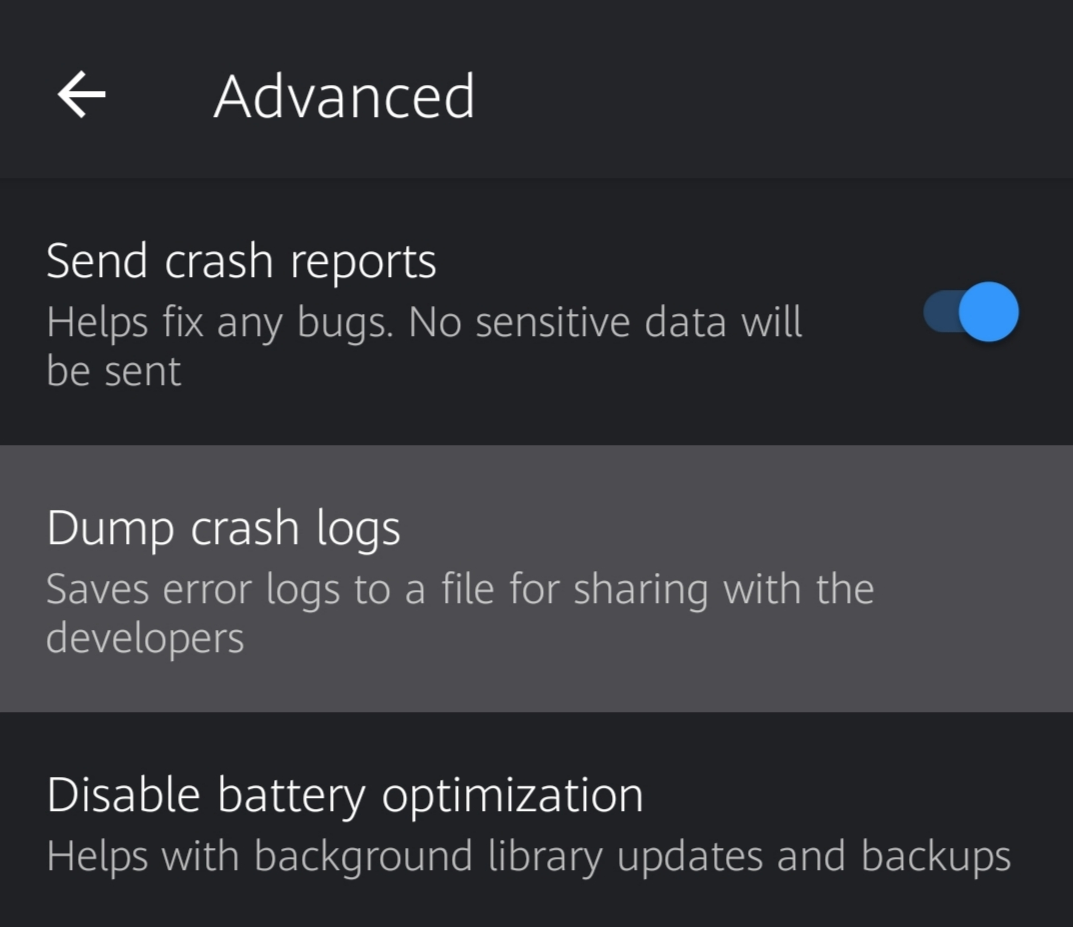
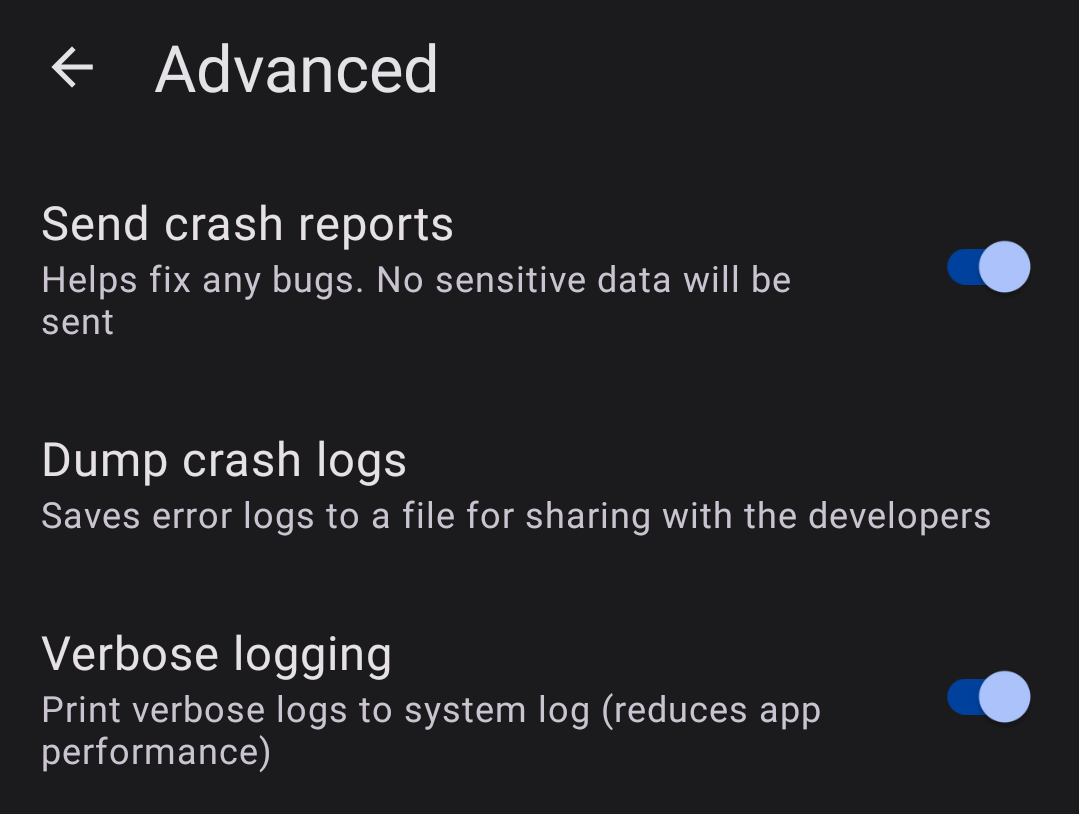
Documented more common errors (#830)
* Documented more common errors

* Fix incorrect icon name

* Correct link to Android 11 section

* Fixed el collapse item initialize

* updated dump crashlogs image

* Actually fix el-collapse

* Addressed PR Review comments

* Changed Android 11 section to 11+

* fix link to migration page

diff --git a/src/help/faq/README.md b/src/help/faq/README.md
@@ -17,7 +17,6 @@ No. There is no iOS version, and there are no plans for one. Since iOS and Andro
 #### Will Tachiyomi ever be on the Google Play Store?
 Google Play's content policy does not allow the APK based extension system to work. The content on some websites will lead to Google taking it down at some point, and Inorichi does not want to have to deal with it as they have stated [before](https://github.com/tachiyomiorg/tachiyomi/issues/1745#issuecomment-441208074).
 
-
 #### Can Tachiyomi read Light Novels?
 No. Tachiyomi is an image parser, not a text parser.
 
@@ -332,7 +331,7 @@ No, unless expressly stated, the internal ID of sources has not changed, so migr
 #### What if I uninstall the multisource extension before I install the singular extensions?
 See what extension IDs correspond to what extensions [here](https://pastebin.com/raw/QX2scdRT).
 
-## Android 11
+## Android 11+
 
 ### What changed in Android 11?
 In Android 11, Google began forcing users to use [Scoped Storage](https://developer.android.com/about/versions/11/privacy/storage), which was introduced in Android 5.0 Lollipop, but Google only began forcing developers to use it on Android 11. Some OEMs seem to better implement Scoped Storage than others, with some users not running into any issues while users using other phone brands have multitudes of problems.
